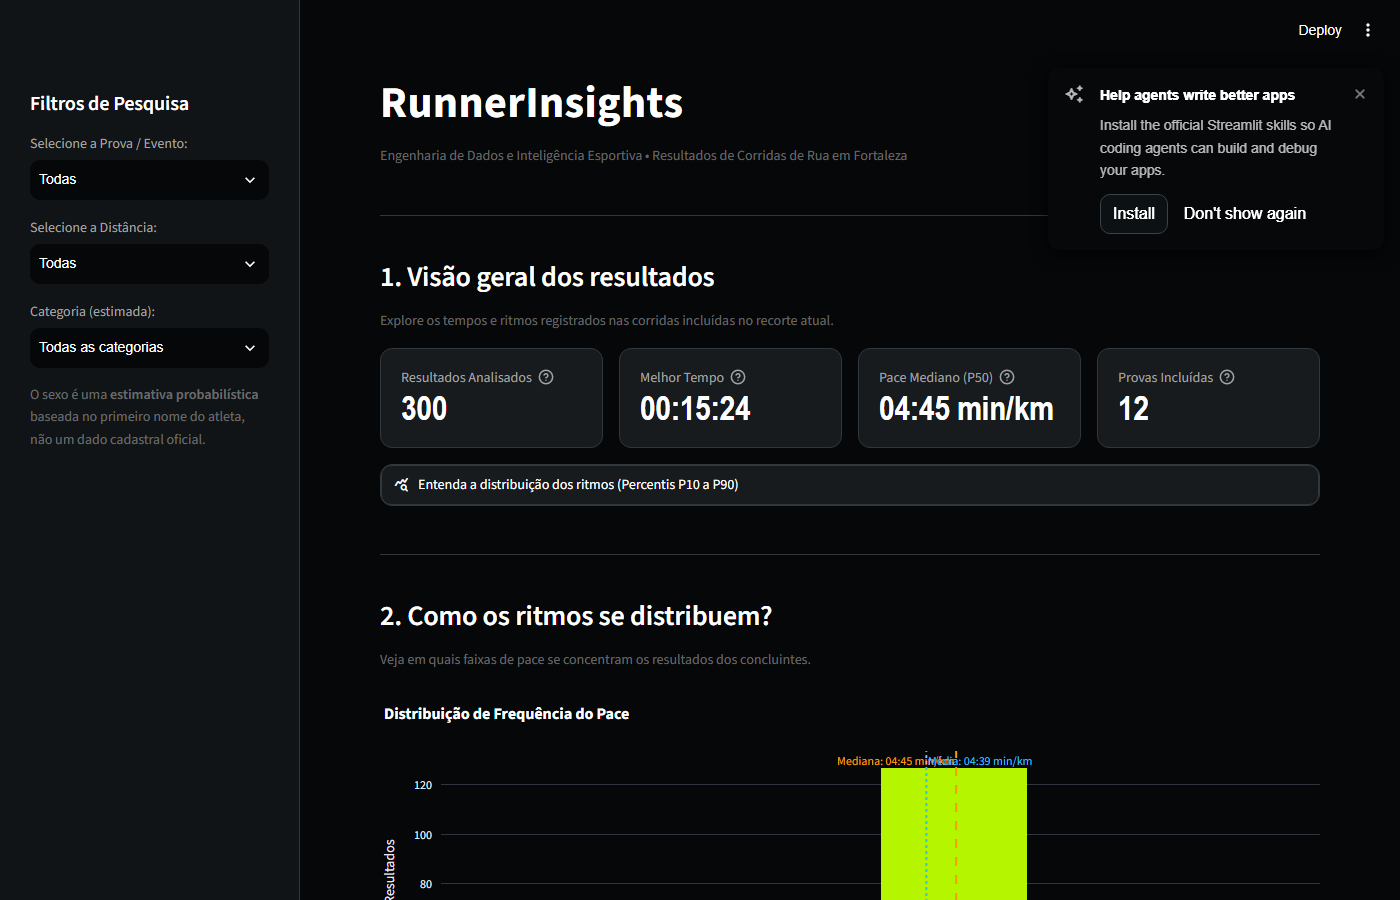
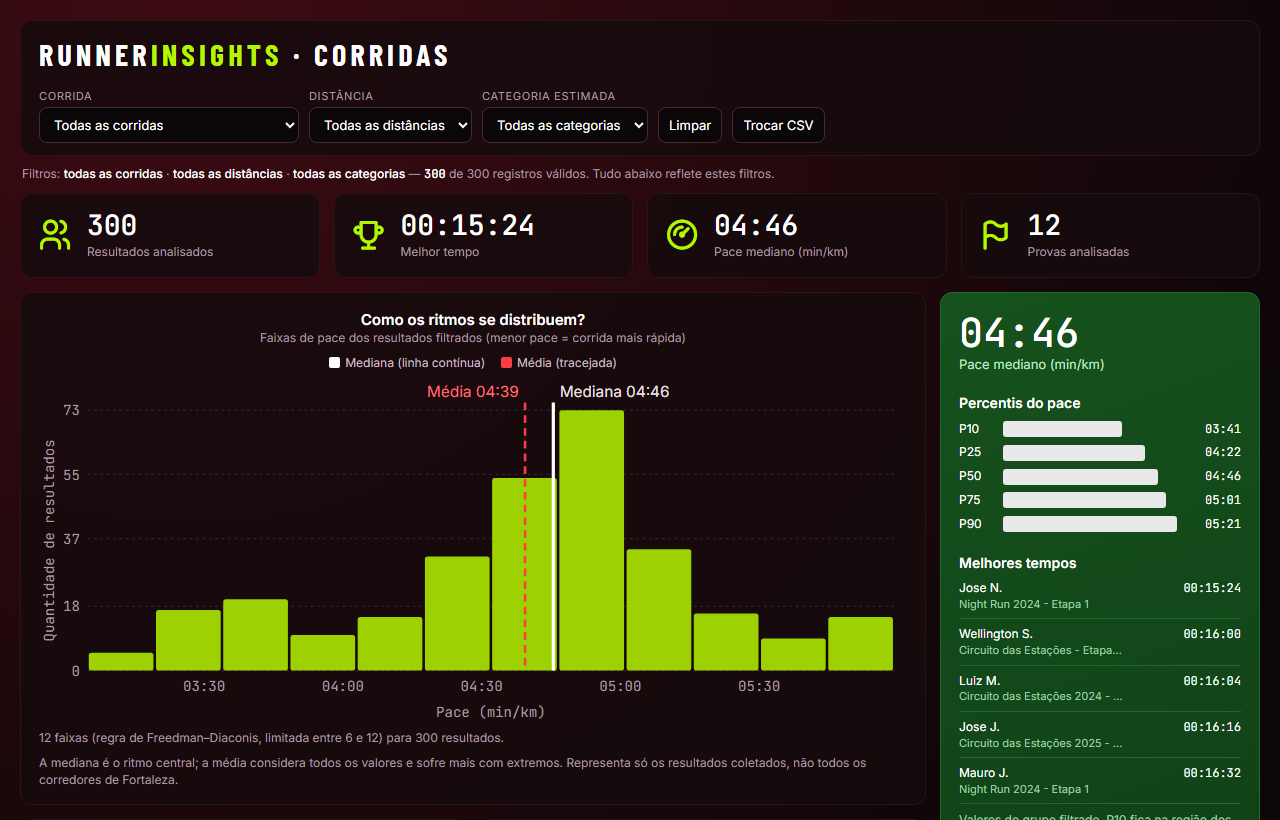
docs: atualizar screenshot e documentacao do dashboard neon no readme

diff --git a/README.md b/README.md
@@ -29,7 +29,7 @@ Resultados de provas de corrida amadora costumam ficar dispersos em portais de c
 O **RunnerInsights** implementa uma arquitetura modular moderna de dados:
 1. **Coleta Resiliente:** Web scraper automatizado com Playwright que navega de forma estruturada, respeita o `robots.txt` e lida com instabilidades de rede via retry exponencial (`tenacity`).
 2. **Pipeline de Dados & LGPD:** Higienização, deduplicação em memória, validação rigorosa de *schema* (`pandera`) e anonimização preventiva de atletas.
-3. **Analytics Avançado:** Dashboard em Streamlit com Plotly, trazendo métricas robustas (mediana e percentis P10 a P90) e gráficos de dispersão (*boxplots* por prova e gênero).
+3. **Analytics Avançado:** Dashboard integrado com identidade visual esportiva Neon em alta performance, trazendo métricas robustas (mediana e percentis P10 a P90), histograma de ritmos com linhas estatísticas guia, comparativo de provas (Mediana vs P90) e proporção por gênero.
 
 ---
 
@@ -52,10 +52,10 @@ flowchart TD
     end
 
     subgraph Visualizacao ["3. Camada de Apresentação (BI)"]
-        I --> J[app.py<br/>Streamlit Dashboard]
-        J --> K[Cards KPI: Resultados, Melhor Tempo, P50, Provas]
-        J --> L[Gráficos Plotly: Eixos em MM:SS min/km, Boxplots, Histograma]
-        J --> M[Filtros Interativos por Prova, Distância e Categoria]
+        I --> J[app.py<br/>Streamlit Host]
+        J --> K[src/dashboard_view.py<br/>Injeção de Dados em JSON]
+        K --> L[Template Neon: SVG Charts, Donut, Histograma & P90]
+        L --> M[Filtros Dinâmicos em Tempo Real no Navegador]
     end
 ```
 
@@ -71,10 +71,9 @@ flowchart TD
 | **Pandas** | Processamento de Dados | Vetorização de alto desempenho para conversão de tempos, cálculos de *pace* e transformações tabulares. |
 | **Pandera** | Validação de Schema | Garante a integridade estatística dos dados antes de salvar na base limpa (rejeita *paces* irreais ou dados corrompidos). |
 | **gender-guesser** | Apoio Analítico | Complementa regras fonéticas do português brasileiro para enriquecimento estatístico com rotulação explícita de estimativa. |
-| **Streamlit** | Interface Web | Rápida iteração de interfaces analíticas com reatividade automática e filtros em tempo real. |
-| **Plotly Express** | Visualização Interativa | Gráficos com suporte a *hover*, zoom, *boxplots* interativos e temas modernos. |
+| **Streamlit + SVG/HTML5** | Interface e Dashboard | Entrega ultrarrápida com design esportivo customizado, gráficos SVG e filtros instantâneos no cliente. |
 | **Ruff** | Linting e Padronização | Linter ultrarrápido em Rust garantindo conformidade com PEP 8 e regras de qualidade de código. |
-| **Pytest** | Testes Automatizados | Suíte completa com 54 testes unitários e de integração cobrindo scraper, pipeline e utilitários. |
+| **Pytest** | Testes Automatizados | Suíte completa com 56 testes unitários e de integração cobrindo scraper, pipeline, visualização e utilitários. |
 
 ---
 
@@ -83,7 +82,7 @@ flowchart TD
 ```text
 runner-insights/
 ├── .gitignore                   # Proteção de ambientes, caches e dados brutos
-├── app.py                       # Interface do dashboard analítico (Streamlit)
+├── app.py                       # Ponto de entrada do dashboard (Streamlit)
 ├── pyproject.toml               # Configuração do projeto, Ruff e Pytest
 ├── requirements.txt             # Dependências principais de produção
 ├── requirements-dev.txt         # Dependências de desenvolvimento e testes
@@ -99,11 +98,15 @@ runner-insights/
 ├── src/
 │   ├── __init__.py
 │   ├── config.py                # Configurações centrais, caminhos e variáveis de ambiente
+│   ├── dashboard_view.py        # Serialização e renderização do dashboard Neon
 │   ├── scraper.py               # Scraper resiliente com Playwright e Tenacity
 │   ├── pipeline.py              # Pipeline ETL de limpeza, cálculo e anonimização
+│   ├── templates/               # Templates HTML/CSS/JS da interface Neon
+│   │   └── dashboard.html
 │   ├── utils.py                 # Funções utilitárias (cálculo de pace, mediana e percentis)
 │   └── validation.py            # Validação declarativa de schema com Pandera
 └── tests/
+    ├── test_dashboard_view.py   # Testes unitários do módulo de visualização
     ├── test_pipeline.py         # Testes unitários do pipeline e funções estatísticas
     ├── test_scraper.py          # Testes unitários e mocks do scraper resiliente
     └── test_validation.py       # Testes das regras de validação do schema Pandera
